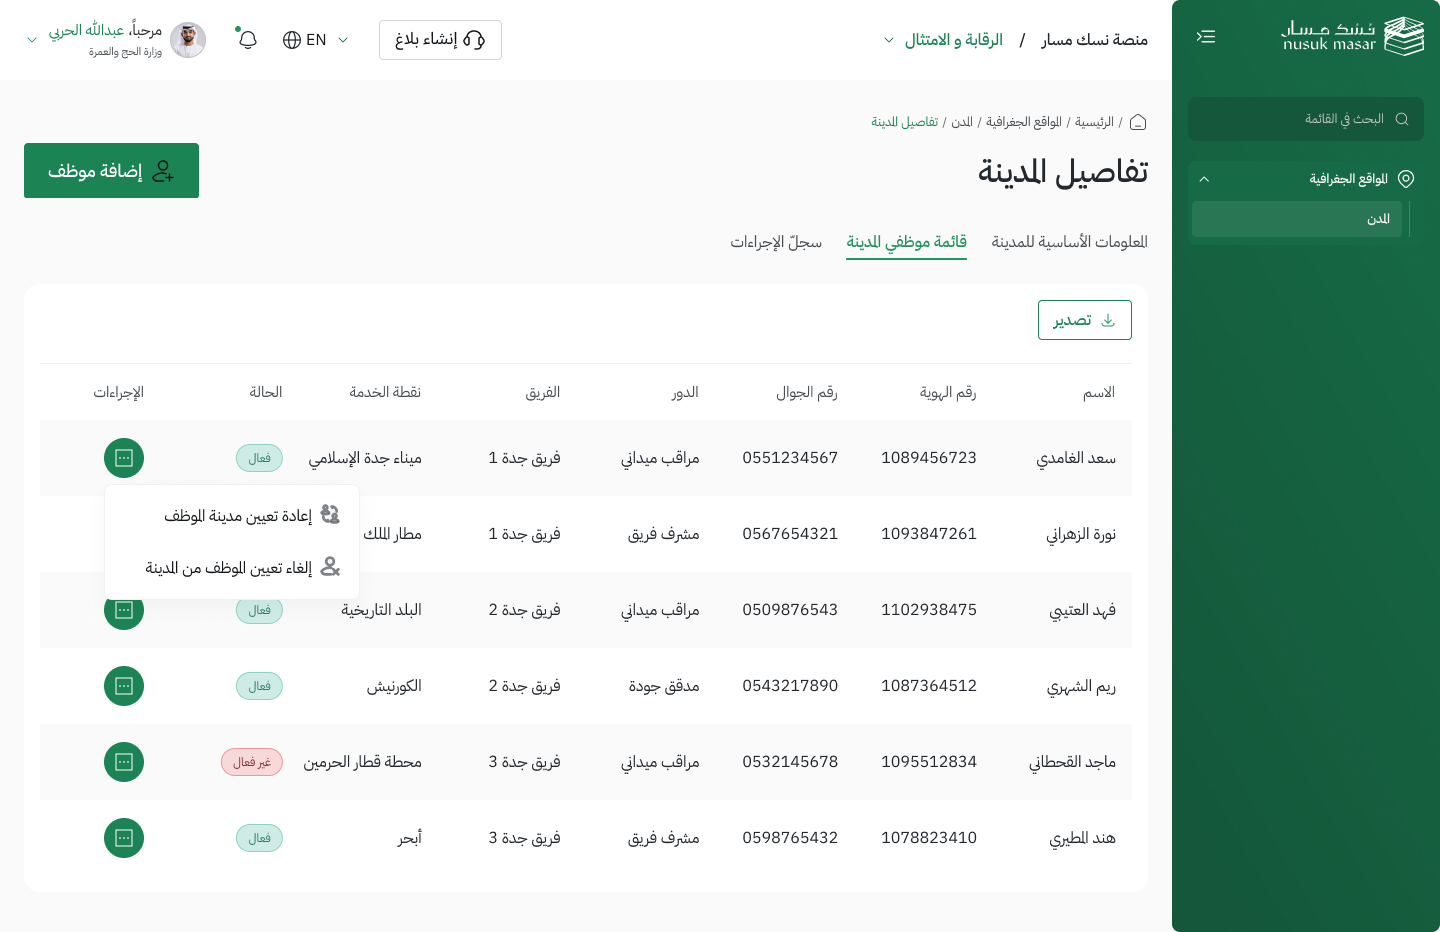
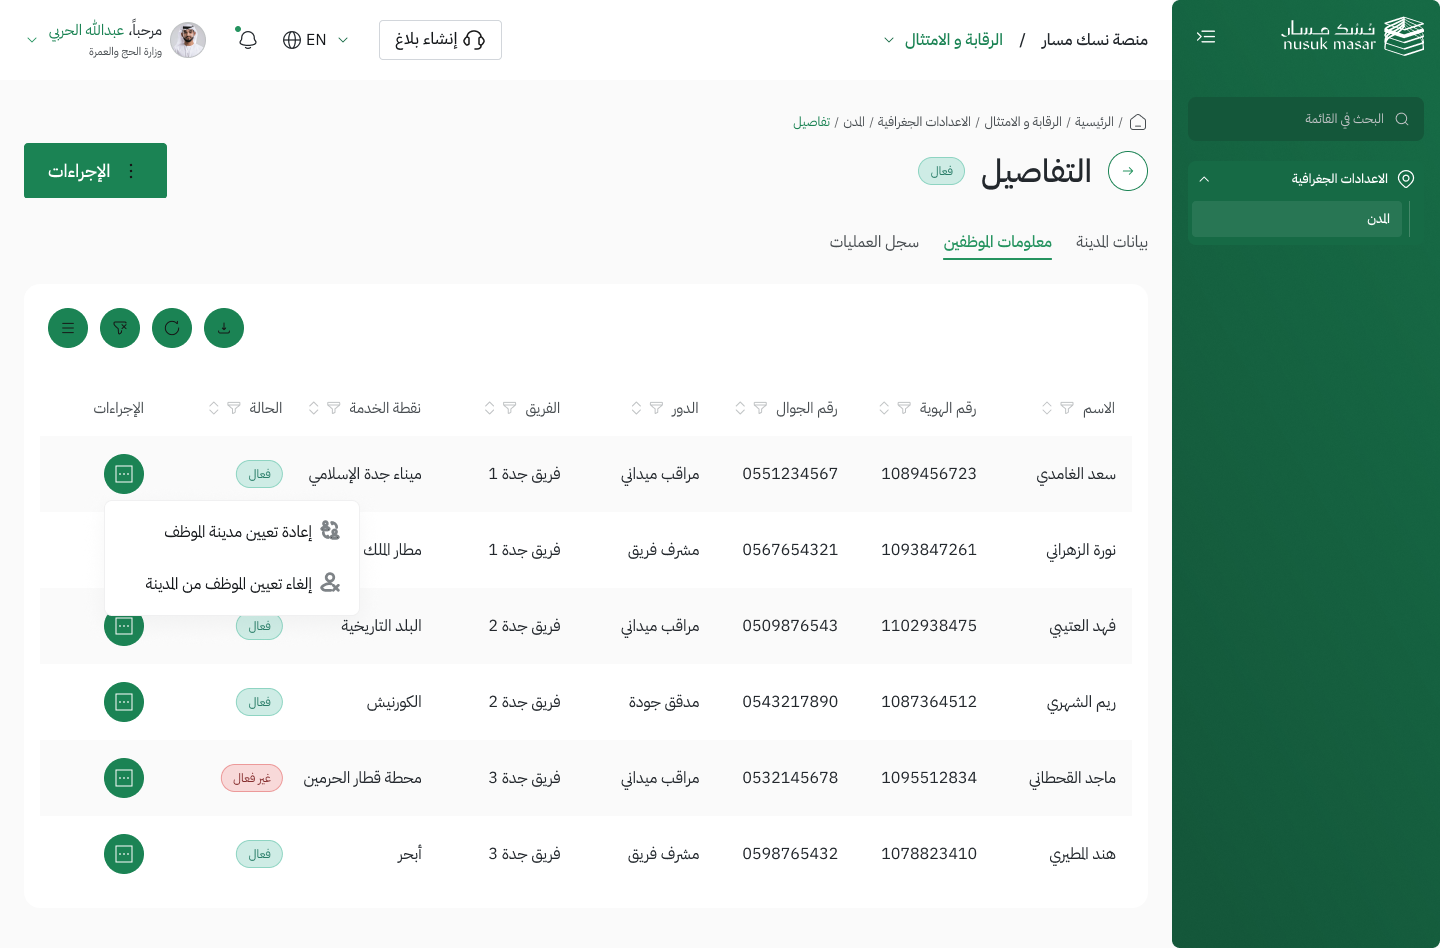
Imtithal cities: names and table toolbar matched to the reference screens
Claude-Session: https://claude.ai/code/session_01CyctH4WFBszWbBNkvnfQuz

diff --git a/CLAUDE.md b/CLAUDE.md
@@ -381,6 +381,15 @@ All four libraries are published and reachable through `search_design_system`.
   rule «export any table into an excel sheet»). Wording from the story: menu «إضافة موظف/موظفين للمدينة» + «إلغاء تفعيل»,
   labels «اسم المدينة (AR)/(EN)», «اسم المنطقة (AR)/(EN)». Page chrome kept: top_bar, nav (المواقع الجغرافية › المدن),
   breadcrumbs, persona banner/sections.
+- **Naming + toolbar like the reference screenshots (user: «names like the screenshots; filters as there; no search»):**
+  nav item «الاعدادات الجغرافية» › المدن; breadcrumbs الرئيسية / الرقابة و الامتثال / الاعدادات الجغرافية / المدن (+ تفاصيل);
+  cards اجمالي المدن 35 · المدن المفعلة 34/35 · المدن غير المفعلة 1/35; list columns الرقم التعريفي · الاسم (عربي) · الاسم
+  (انجليزي) · المناطق · الحالة · الإجراءات. Details: title «التفاصيل» + back + chip «فعال» + primary «الإجراءات» (Icons
+  more-vertical); tabs بيانات المدينة · معلومات الموظفين · سجل العمليات; card «البيانات الأساسية» (الرقم التعريفي, الاسم
+  (عربي), الاسم (انجليزي), عدد المناطق); areas columns رقم المنطقة · الاسم (عربي) · الاسم (انجليزي) · عدد نقاط الخدمة · الحالة.
+  Every table: DS table_header hidden and wrapped in `table_card` with a `toolbar` of four DS primary single-icon buttons
+  (left → right menu-01, filter-remove, refresh, download-04; «المناطق» title on the right for areas), no search;
+  sort + filter icons on every column header.
 - Previews `previews/imtithal-cities/`.
 
 ## Transport Information Center homepage (DGA review)
